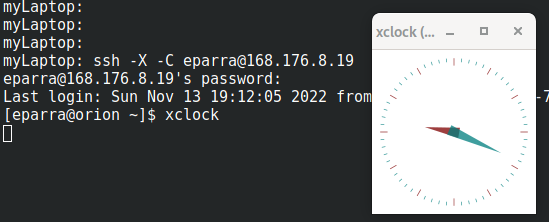
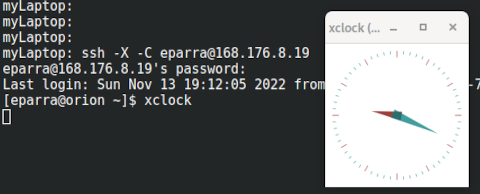
first commit

diff --git a/ingreso.rst b/ingreso.rst
@@ -33,9 +33,16 @@ Aunque la mayoria de los usuarios usan este metodo con contrasena, debido a ries
 Iniciar sesiones GUI con ssh
 *************************
 
-Este procedimiento es dependiente del ancho de banda del que dispone el usuario y normalmente es eficiente cuando se usan maquinas conectadas fisicamente a la red del campus.  
+Este procedimiento es dependiente del ancho de banda del que dispone el usuario y, normalmente es eficiente cuando se usan maquinas conectadas fisicamente a la red del campus.  
 
 Para proporcionar ambientes graficos en sesiones ssh debe adicionar parametro "-X",  tambien puede adicionar el parametro "-C" para comprimir la informacion  que envia a traves de la red.   Puede verificar que habilito ambientes graficos o "X" ejecutando el programa "xclock".
+
+.. image:: images/sshx.png
+    :width: 480px
+    :align: center
+    :height: 194px
+    :alt: Linux Xterminal image
+
 
 Debe iniciar sesion en el nodo de acceso permitiendo "X",  agregando  a *ssh* el parametro "-X"   hasta llegar al nodo de envio y desde alli puede iniciar una sesion iteractiva con srun::
 
